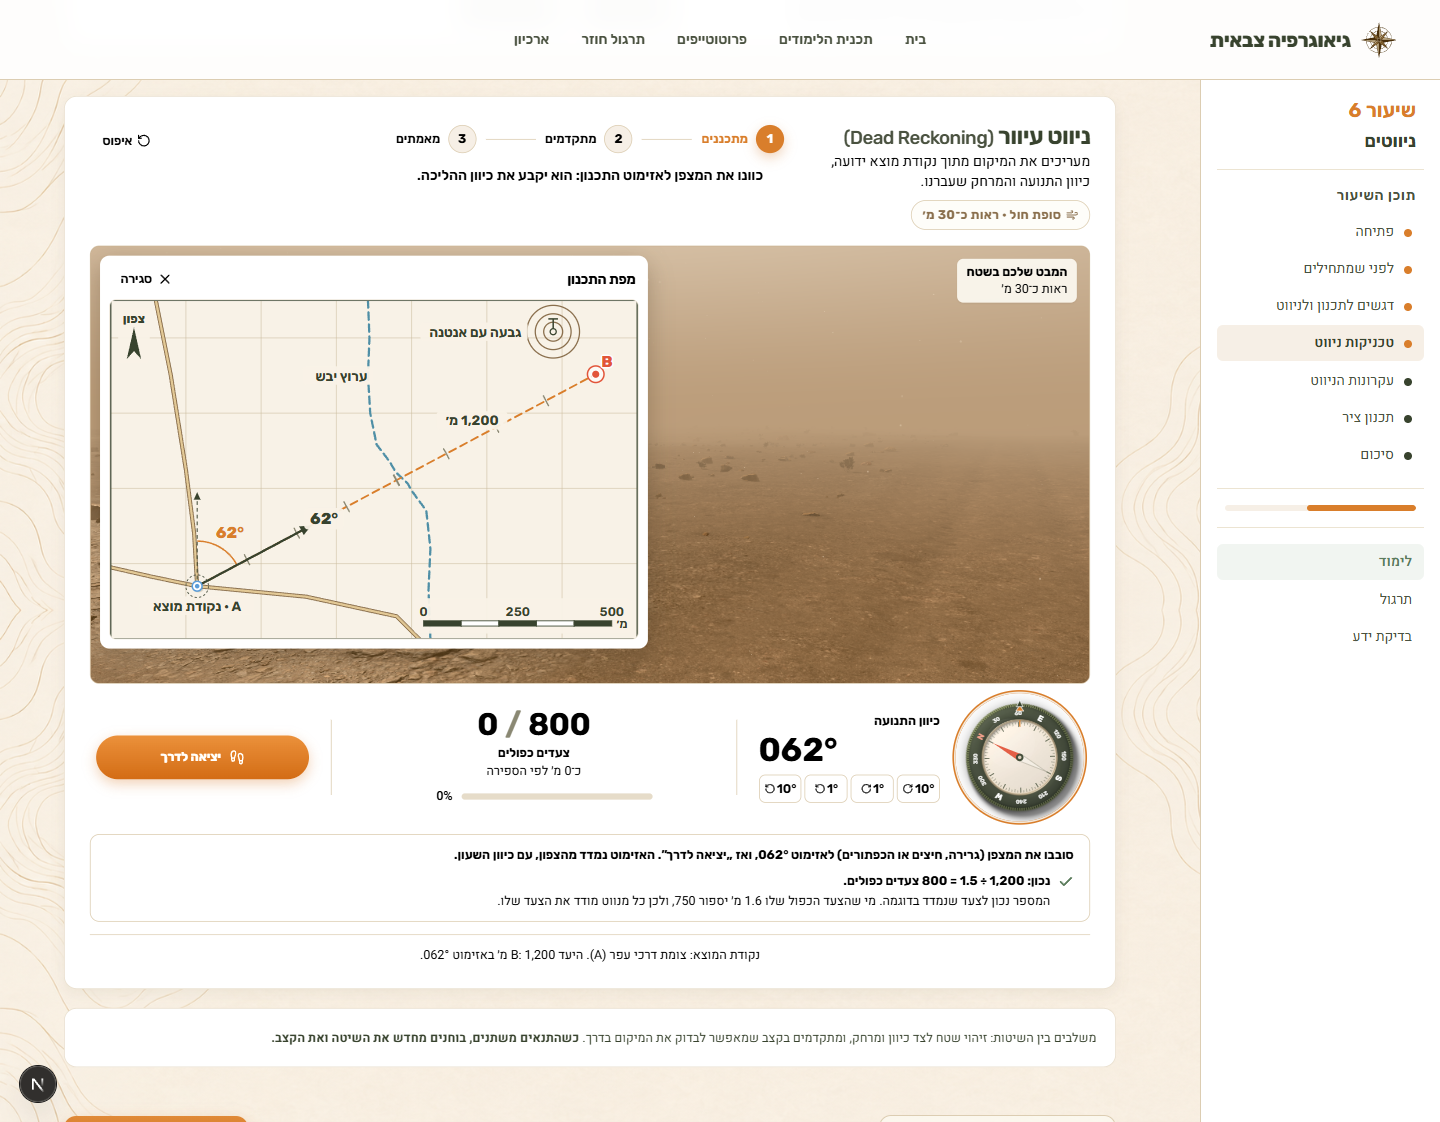
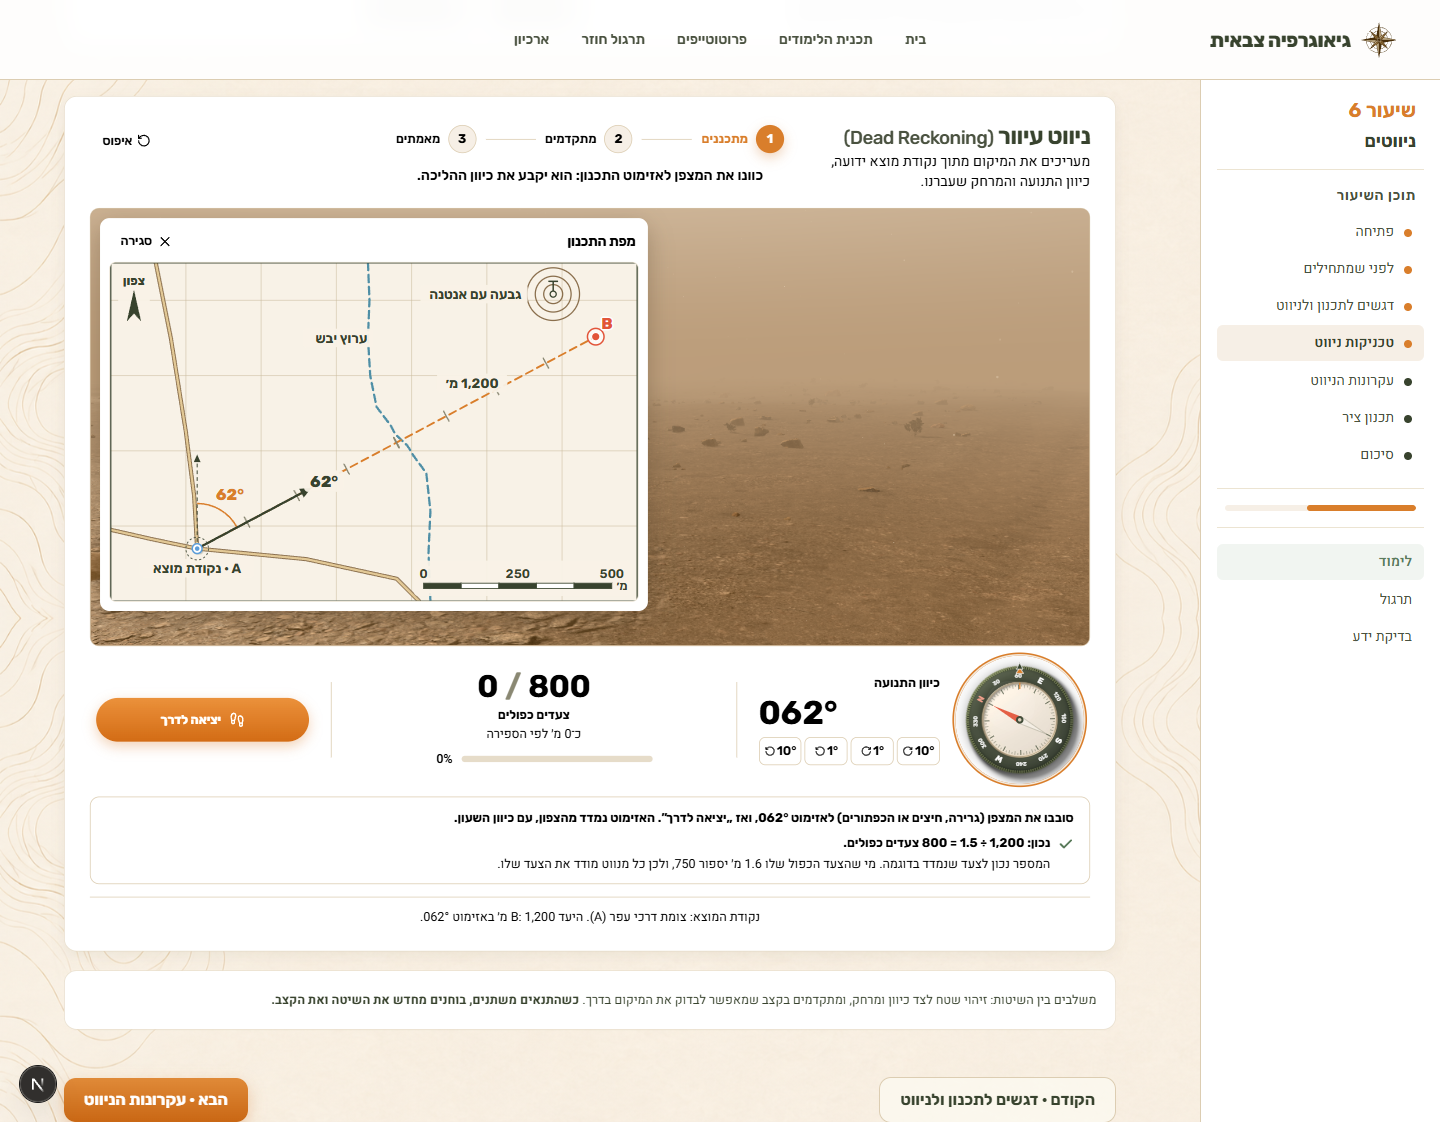
fix(topic-06): dead reckoning — no stretched view, quicker segments, fewer labels
- Fix the horizontal field of view at 64° and derive the vertical one from the
  frame's shape: a wide or short frame (1920 × 910 makes it ~3:1) no longer
  stretches the edges when looking around.
- A 100-pair segment now takes 1.4 s instead of 3.6 s; the next segment's
  ground chunks are built while the learner stands, so the walk never waits.
- Remove the "סופת חול · ראות כ־30 מ׳" chip and the "המבט שלכם בשטח" label
  (user request); recalibrate the short-screen view height to the shorter
  title row.
- QA: dead-reckoning.test.mjs 17/17, shot-dead-reckoning.mjs 141/141
  (rapid presses now fired in one go), production build passes.

Changed region(s): [[0.0312, 0.1872, 0.7812, 1.0], [0.4688, 0.3743, 0.6562, 0.4055]]

diff --git a/src/components/lessons/topic-06/dead-reckoning/DeadReckoningScene3D.tsx b/src/components/lessons/topic-06/dead-reckoning/DeadReckoningScene3D.tsx
@@ -7,7 +7,7 @@ import type { MotionValue } from 'framer-motion';
 import * as THREE from 'three';
 import { ModelLoading } from '@/components/lesson/ModelLoading';
 import { LESSON_FIT_CANVAS_RESIZE } from '@/components/lesson/LessonViewportFit';
-import { WADI_CROSSING_M, along } from './deadReckoningModel';
+import { SEGMENT_M, WADI_CROSSING_M, along } from './deadReckoningModel';
 import {
   CHUNK_M,
   CHUNK_REACH_M,
@@ -67,8 +67,13 @@ const SHRUBS_URL = `${DIR}/shrubs.glb`;
 /** The frame's background while the canvas has nothing to show (the storm's own haze colour). */
 export const DUST_BG = '#c1a484';
 
-/** Vertical field of view: ~76° across the activity's wide frame. */
-const FOV = 38;
+/**
+ * Horizontal field of view, fixed: the vertical one follows the frame's shape, so a wider or
+ * shorter view (1920 × 910 makes it ~3:1) shows more around, never a stretched edge. 64° keeps
+ * stones near the edges of the view round wherever one looks.
+ */
+const HFOV = 64;
+const vfovFor = (aspect: number) => (2 * Math.atan(Math.tan((HFOV * Math.PI) / 360) / aspect) * 180) / Math.PI;
 /**
  * Sun through the dust: high in the north-north-east, ahead of the walker — the
  * brightest haze is in front, rocks throw their soft shadows towards the eye
@@ -108,7 +113,7 @@ export default function DeadReckoningScene3D(props: SceneProps) {
         frameloop={props.active ? 'always' : 'never'}
         dpr={[0.85, 1.25]}
         shadows
-        camera={{ fov: FOV, near: 0.08, far: 600, position: [0, 1.7, 0] }}
+        camera={{ fov: vfovFor(1280 / 560), near: 0.08, far: 600, position: [0, 1.7, 0] }}
         gl={{ antialias: true, powerPreference: 'high-performance', stencil: false }}
         onCreated={({ gl }) => {
           gl.toneMapping = THREE.NeutralToneMapping;
@@ -346,10 +351,16 @@ function World({ distM, look, wadiLabel, reduceMotion, onReady }: SceneProps) {
     instancesDirty.current = false;
   };
 
+  /**
+   * The chunks around the eye, plus those of the next segment ahead — built in the frames while the learner
+   * stands and reads, so a walk never waits for ground. The nearest come first.
+   */
   const syncChunks = (u: number) => {
     const want = new Set<string>();
     const order: { i: number; j: number; pri: number }[] = [];
-    for (const c of chunksAround(u)) {
+    const around = new Map<string, { i: number; j: number }>();
+    for (const c of [...chunksAround(u), ...chunksAround(u + SEGMENT_M)]) around.set(`${c.i},${c.j}`, c);
+    for (const c of around.values()) {
       const k = `${c.i},${c.j}`;
       want.add(k);
       if (!chunks.current.has(k)) {
@@ -364,7 +375,8 @@ function World({ distM, look, wadiLabel, reduceMotion, onReady }: SceneProps) {
     for (const [k, rec] of chunks.current) {
       if (want.has(k)) continue;
       const [i] = k.split(',').map(Number);
-      if (Math.abs((i + 0.5) * CHUNK_M - u) < CHUNK_REACH_M + CHUNK_M * 1.5) continue;
+      const cu = (i + 0.5) * CHUNK_M - u;
+      if (cu > -(CHUNK_REACH_M + CHUNK_M * 1.5) && cu < CHUNK_REACH_M + SEGMENT_M + CHUNK_M * 1.5) continue;
       groundGroup.current?.remove(rec.mesh);
       rec.mesh.geometry.dispose();
       chunks.current.delete(k);
@@ -372,7 +384,8 @@ function World({ distM, look, wadiLabel, reduceMotion, onReady }: SceneProps) {
     }
     for (const k of scatterCache.current.keys()) {
       const [i] = k.split(',').map(Number);
-      if (Math.abs((i + 0.5) * CHUNK_M - u) > CHUNK_REACH_M + CHUNK_M * 3) scatterCache.current.delete(k);
+      const cu = (i + 0.5) * CHUNK_M - u;
+      if (cu < -(CHUNK_REACH_M + CHUNK_M * 3) || cu > CHUNK_REACH_M + SEGMENT_M + CHUNK_M * 3) scatterCache.current.delete(k);
     }
   };
 
@@ -443,6 +456,14 @@ function World({ distM, look, wadiLabel, reduceMotion, onReady }: SceneProps) {
       lastRebuild.current = performance.now();
     }
 
+    // The vertical field of view follows the frame's shape (the horizontal one is fixed).
+    const cam = camera as THREE.PerspectiveCamera;
+    const vfov = vfovFor(state.size.width / Math.max(1, state.size.height));
+    if (Math.abs(cam.fov - vfov) > 0.01) {
+      cam.fov = vfov;
+      cam.updateProjectionMatrix();
+    }
+
     // The eye: on the line, 1.7 m over the ground under the feet.
     const p = legToEN(u, 0);
     const [x, , z] = toScene(p.E, p.N, 0);
@@ -463,8 +484,8 @@ function World({ distM, look, wadiLabel, reduceMotion, onReady }: SceneProps) {
     }
     res.sky.position.copy(camera.position);
 
-    // Ready once the chunks around the eye are built and drawn.
-    if (!initial.current.done && queue.current.length === 0) {
+    // Ready once the chunks around the eye are built and drawn (the next segment's may still be coming).
+    if (!initial.current.done && !queue.current.some((c) => Math.abs((c.i + 0.5) * CHUNK_M - u) < CHUNK_REACH_M + CHUNK_M)) {
       initial.current.frames += 1;
       if (initial.current.frames >= 2) {
         initial.current.done = true;

diff --git a/src/components/lessons/topic-06/dead-reckoning/DeadReckoningActivity.tsx b/src/components/lessons/topic-06/dead-reckoning/DeadReckoningActivity.tsx
@@ -2,9 +2,8 @@
 
 import { useEffect, useId, useMemo, useReducer, useRef, useState, useSyncExternalStore, type ReactNode } from 'react';
 import { animate, motion, useMotionValue, useReducedMotion, useTransform, type MotionValue } from 'framer-motion';
-import { Check, Eye, Footprints, Info, Map as MapIcon, RotateCcw, RotateCw, Wind, X } from 'lucide-react';
+import { Check, Eye, Footprints, Info, Map as MapIcon, RotateCcw, RotateCw, X } from 'lucide-react';
 import { Button } from '@/components/ui/Button';
-import { StatusChip } from '@/components/ui/StatusChip';
 import { cn } from '@/lib/utils';
 import { useLessonViewportScale } from '@/components/lesson/LessonViewportFit';
 import { RadioRow } from '../terrain-nav/RadioRow';
@@ -44,7 +43,7 @@ import { TravelCompass, formatAzimuth } from './TravelCompass';
 /**
  * "ניווט עיוור" — the dead-reckoning activity of lesson 6, inside a sandstorm,
  * seen from the navigator's own eyes. One card: the title row (title, short
- * description, the conditions chip; the stepper; a quiet reset), the live
+ * description; the stepper; a quiet reset), the live
  * first-person view with the planning map on demand, a toolbar under it (the
  * compass, the walking direction, the pace counter and the estimate, the
  * advance button), the task panel and one status line.
@@ -70,8 +69,6 @@ import { TravelCompass, formatAzimuth } from './TravelCompass';
 
 /** The technique's board copy, owned by CombatNavScene. */
 export type DeadReckoningCopy = {
-  /** The conditions chip. */
-  readonly badge: string;
   /** The method's principle — the status line once the task is done (earlier it would answer the task's questions). */
   readonly principle: string;
 };
@@ -88,7 +85,7 @@ const roundM = (v: number) => (v >= 100 ? Math.round(v / 10) * 10 : Math.round(v
 const FRAME_H = 560;
 /** Lowest view height on short screens, and what sits above and beside it down to the toolbar's foot (card padding, title row, toolbar). */
 const FRAME_MIN = 400;
-const CHROME_TO_TOOLBAR = 367;
+const CHROME_TO_TOOLBAR = 319;
 /** Viewport px the lesson keeps above (site header + gap) and below a screen (LessonFitUniform). */
 const VIEWPORT_RESERVE = 104 + 24;
 
@@ -112,8 +109,8 @@ function useFrameHeight() {
   return Math.round(Math.min(FRAME_H, Math.max(FRAME_MIN, room)));
 }
 const COMPASS_PX = 164;
-/** One 150 m segment on screen, seconds. */
-const WALK_S = 3.6;
+/** One 150 m segment on screen, seconds — a short glide, so counting on never feels like waiting. */
+const WALK_S = 1.4;
 
 const STEP_LABEL = ['מתכננים', 'מתקדמים', 'מאמתים'] as const;
 const SIGN_LABEL: Record<SignOption, string> = { wadi: 'ערוץ יבש', road: 'דרך עפר', hill: 'גבעה עם אנטנה' };
@@ -241,9 +238,6 @@ export function DeadReckoningActivity({ copy, title, intro }: { copy: DeadReckon
         <div className="min-w-0">
           {title}
           {intro && <div className="mt-1">{intro}</div>}
-          <StatusChip tone="badge" className="mt-2.5 px-3.5 py-1.5 text-base" icon={<Wind className="size-4" aria-hidden />}>
-            {copy.badge}
-          </StatusChip>
         </div>
         <div className="flex flex-col items-center pt-1">
           <Stepper current={v.stepNumber} done={v.done} />

diff --git a/src/components/lessons/topic-06/CombatNavScene.tsx b/src/components/lessons/topic-06/CombatNavScene.tsx
@@ -6,7 +6,7 @@ import type { IconName } from '@/components/Icon';
 import { LessonViewportFit } from '@/components/lesson/LessonViewportFit';
 import type { GlyphKind } from './CombatNavVisuals';
 import { TerrainAssociationActivity } from './terrain-nav/TerrainAssociationActivity';
-import { DeadReckoningActivity, type DeadReckoningCopy } from './dead-reckoning/DeadReckoningActivity';
+import { DeadReckoningActivity } from './dead-reckoning/DeadReckoningActivity';
 type Method = 'handrail' | 'dead';
 type MethodData = {
 id: Method;
@@ -59,13 +59,6 @@ legend: [
 ],
 },
 };
-
-/**
- * Technique 2 in a sandstorm (dead-reckoning/DeadReckoningActivity): the conditions chip, and the principle
- * (METHODS.dead.detail), which closes the task once its last decision is made — shown earlier, it would
- * answer the activity's own questions (the count, what the finished count proves).
- */
-const DEAD_COPY: Omit<DeadReckoningCopy, 'principle'> = { badge: 'סופת חול · ראות כ־30 מ׳' };
 
 // ─────────────────────────────────────────────────────────────────────────────
 // Laptop fit — the part's three learning screens (the opening, technique 1,
@@ -215,8 +208,8 @@ return (
 }
 
 /* ═══ Technique 2 — ניווט עיוור ═══════════════════════════════════════
-   One card (dead-reckoning/DeadReckoningActivity): the title, the one-line
-   description and the conditions chip head it, beside the task's progress;
+   One card (dead-reckoning/DeadReckoningActivity): the title and the one-line
+   description head it, beside the task's progress;
    the navigator's own view inside the sandstorm fills it, with the planning
    map on demand, the compass and the pace counter under it. The task —
    prepare the count and the compass, walk the leg in 100-pair segments past
@@ -226,7 +219,8 @@ function DeadReckoningSection({ data }: { data: MethodData }) {
 return (
  <section id={`combatnav-${data.id}`} aria-labelledby={`combatnav-${data.id}-title`} className="scroll-mt-24">
  <DeadReckoningActivity
- copy={{ ...DEAD_COPY, principle: data.detail }}
+ // The principle closes the task once its last decision is made — shown earlier, it would answer the activity's own questions.
+ copy={{ principle: data.detail }}
  title={
  <h3 id={`combatnav-${data.id}-title`} className="font-display text-2xl font-bold leading-tight text-fg sm:text-3xl">
  {data.label}

diff --git a/src/components/lessons/topic-06/dead-reckoning/DeadReckoningView.tsx b/src/components/lessons/topic-06/dead-reckoning/DeadReckoningView.tsx
@@ -8,14 +8,13 @@ import { ModelLoading } from '@/components/lesson/ModelLoading';
 import { useLessonViewportScale } from '@/components/lesson/LessonViewportFit';
 import { cn } from '@/lib/utils';
 import { signedTurn } from '../locationCheckGeometry';
-import { VISIBILITY_M } from './deadReckoningModel';
 import { DEFAULT_PITCH, type LookRig } from './deadReckoningLook';
 import { DeadReckoningField } from './DeadReckoningField';
 
 /**
  * The view frame of the dead-reckoning activity: the live first-person scene
  * (DeadReckoningScene3D, loaded on demand) with what belongs on it — the
- * conditions chip, the planning-map button, the look-around hint and the
+ * planning-map button, the look-around hint and the
  * "face the walking direction" button — and the planning map when it is open.
  *
  * Looking around: drag the view, or the arrow keys while it has focus (Home
@@ -173,11 +172,6 @@ export function DeadReckoningView({
         </div>
       ) : null}
 
-      {/* What the view is, and the storm's limit */}
-      <div className="pointer-events-none absolute start-4 top-4 rounded-lg bg-paper-bright/90 px-3 py-1.5 shadow-sm" data-view-chip>
-        <div className="font-display text-base font-bold leading-snug text-black">המבט שלכם בשטח</div>
-        <div className="text-base leading-snug text-black">{`ראות כ־${VISIBILITY_M} מ׳`}</div>
-      </div>
       {/* Under the open map its own close button takes over */}
       <div className={cn('absolute end-4 top-4', mapOpen && 'invisible')} data-no-look>
         {mapButton}

diff --git a/design/docs/assumptions.md b/design/docs/assumptions.md
@@ -3477,3 +3477,4 @@ Brief: `DEAD_RECKONING_OPUS_PROMPT.txt`, approved direction 2 (mockup `dead-reck
 - **Storm and ground colours** were sampled from the mockup (sky #d4bca1, horizon haze #c1a484, near ground #907050) and calibrated in a linear, Neutral tone-mapped pipeline. They are scene-material colours, not UI tokens. Transmittance: ~50 % at 15 m, ~16 % at 30 m, ~2 % at 50 m, so nothing beyond ~50 m is recognisable, and B, the hill and the roads are never visible from the stops.
 - **Assets:** Poly Haven, CC0; sources, processing and sizes are in `public/assets/lessons/topic06/dead-reckoning/ATTRIBUTIONS.md` (≈ 4.3 MB, loaded only when the activity is near the screen). They are rebuilt with `scripts/blender/build_dead_reckoning_assets.py`.
 - **Measured on this machine** (headless Chromium, d3d11, 1440 px): 60 fps while walking. The first frame took 3–6 s on the production export and 4 s in dev. Resolution steps down (DPR 1.25 → 0.85) below 40 fps and back up when frames are fast again. This was not measured on weaker hardware.
+- **Follow-up (same day, user feedback):** the horizontal field of view is fixed at 64°, and the vertical one follows the frame's shape. Before, it was the other way round: a wider or shorter frame (1920 × 910 gives ~3:1) stretched the edges of the view when looking around. Each segment walk is now 1.4 s instead of 3.6 s, and the next segment's ground is built while the learner stands. Both "סופת חול · ראות כ־30 מ׳" and "המבט שלכם בשטח / ראות כ־30 מ׳" were removed at the user's request. The ~30 m of sight is still said in the walk's feedback, and the storm itself shows it.
